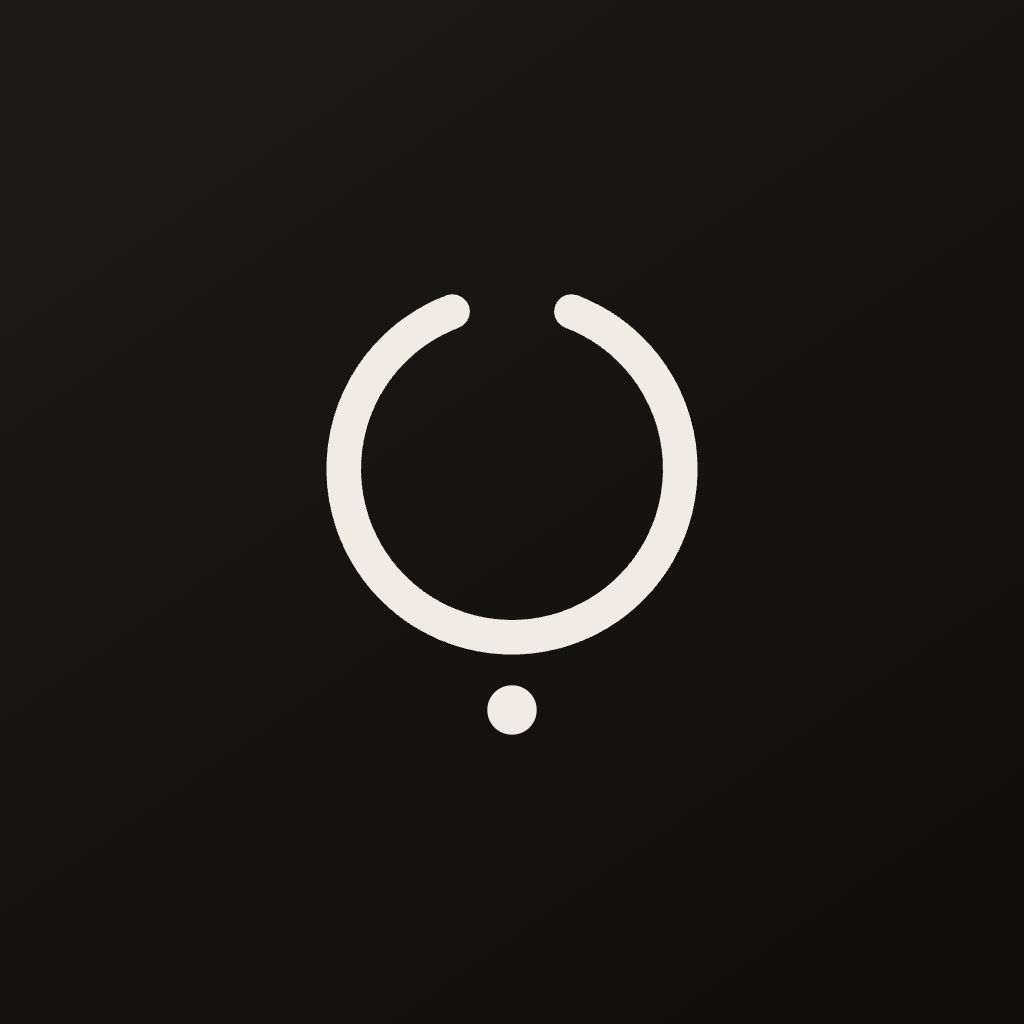
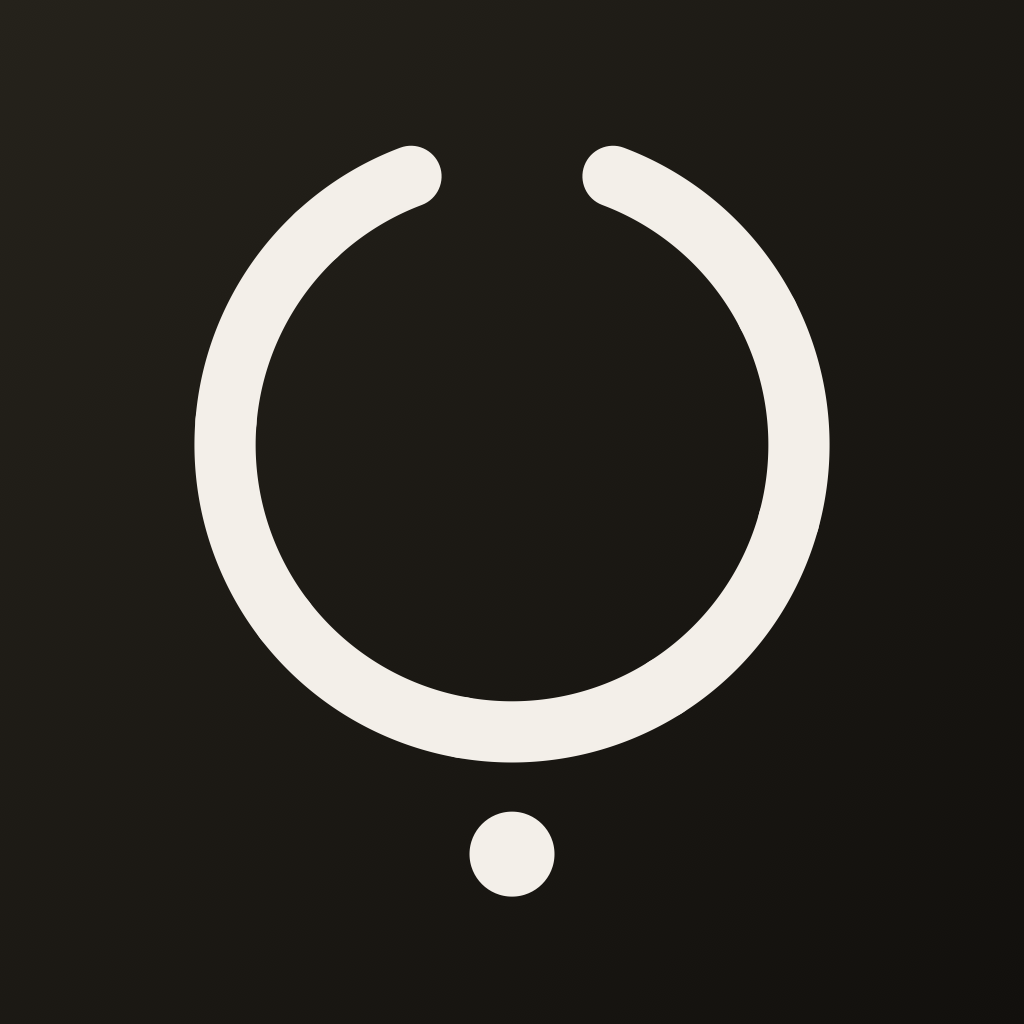
Memento Mori v3.1.0を反映（アイコンの円環を大きく、秒まで刻むウィジェットを機能一覧に追加）

Changed region(s): [[0.1875, 0.125, 0.8125, 0.75], [0.4375, 0.7812, 0.5625, 0.875]]

diff --git a/apps/mementomori.html b/apps/mementomori.html
@@ -171,7 +171,7 @@
                 <li>あと何回 ── 親に会う、桜を見るなど、大切なことの残りの回数を5つまで数える。相手がいるときは、相手の年齢や誕生日から平均余命を求め、あなたと相手の最期の日の、早いほうまでを数える</li>
                 <li>計算の根拠 ── 回数をタップすると、どう数えたかを確かめられる</li>
                 <li>シェアカード ── 画面を長押しすると、一枚の画像にして共有できる</li>
-                <li>ホーム画面・ロック画面ウィジェット（残り日数・週グリッド・満月・今年の進捗）</li>
+                <li>ホーム画面・ロック画面ウィジェット（残り日数・残り時間（秒まで）・週グリッド・満月・今年の進捗）</li>
                 <li>毎日の通知（届く時刻にゆらぎを持たせることもできる）と、満月の夜の通知</li>
                 <li>マイリマインダー ── 自分だけの通知を設定</li>
                 <li>日本語・英語対応</li>

diff --git a/apps/mementomori-en.html b/apps/mementomori-en.html
@@ -171,7 +171,7 @@
                 <li>Times Left — count up to five things that matter, like seeing your parents or the cherry blossoms. With another person, their remaining life expectancy is estimated from their age or birthday, and the count ends at your final day or theirs, whichever comes first</li>
                 <li>Transparent math — tap a count to see exactly how it's calculated</li>
                 <li>Share cards — long-press any screen to share it as an image</li>
-                <li>Home Screen and Lock Screen widgets (remaining days, Week Grid, Full Moon, Year Progress)</li>
+                <li>Home Screen and Lock Screen widgets (remaining days, remaining time down to the second, Week Grid, Full Moon, Year Progress)</li>
                 <li>Daily reminder, with an option to vary the time each day, and full moon night notifications</li>
                 <li>My Reminders — set your own personal notifications</li>
                 <li>Japanese and English support</li>
